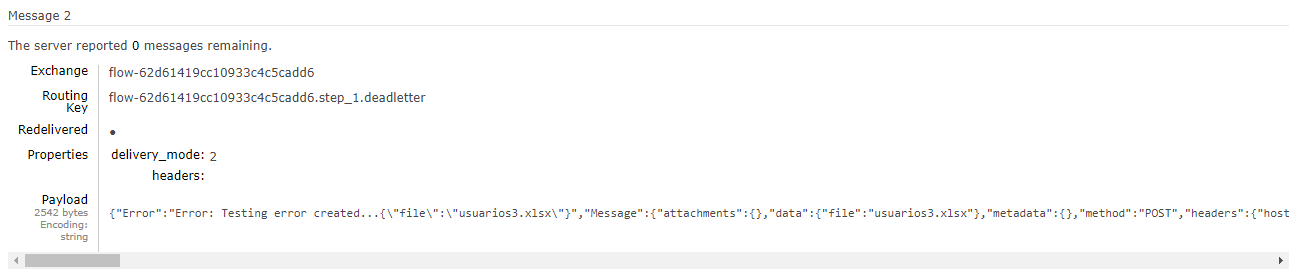
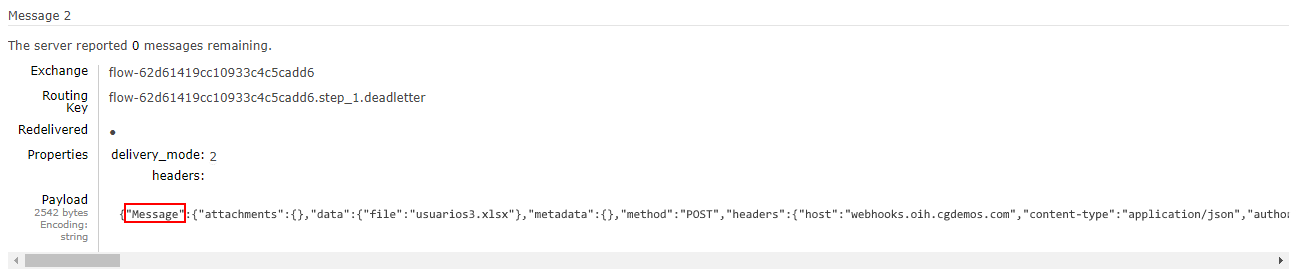
README file updated with all methods.

Changed region(s): [[0.0916, 0.7246, 1.0, 0.8116]]

diff --git a/rabbit.js b/rabbit.js
@@ -68,7 +68,8 @@ module.exports.producerMessage = async (message) => {
         await ch.bindQueue(queue.queue, exchangeDLX, routingKey);
 
         //ch.sendToQueue(queue.queue, new Buffer.from(message.toString()),{persistent: true});
-        ch.publish(exchangeDLX, routingKey, new Buffer.from(message.toString()),{persistent: true});
+        const trace = {"Message": message.toString()}
+        ch.publish(exchangeDLX, routingKey, new Buffer.from(JSON.stringify(trace)),{persistent: true});
 
         await ch.close();
     }catch (e){
@@ -106,7 +107,7 @@ module.exports.producerErrorMessage = async (payload, error) => {
 
         //ch.sendToQueue(queue.queue, new Buffer.from(message.toString()),{persistent: true});
         const emsg = error.toString();
-        const trace = {"ErrorMessage": emsg, "Payload": payload.toString()}
+        const trace = {"ErrorMessage": emsg, "Payload": payload.toString()};
         ch.publish(exchangeDLX, routingKey, new Buffer.from(JSON.stringify(trace)), {persistent: true});
 
         await ch.close();
